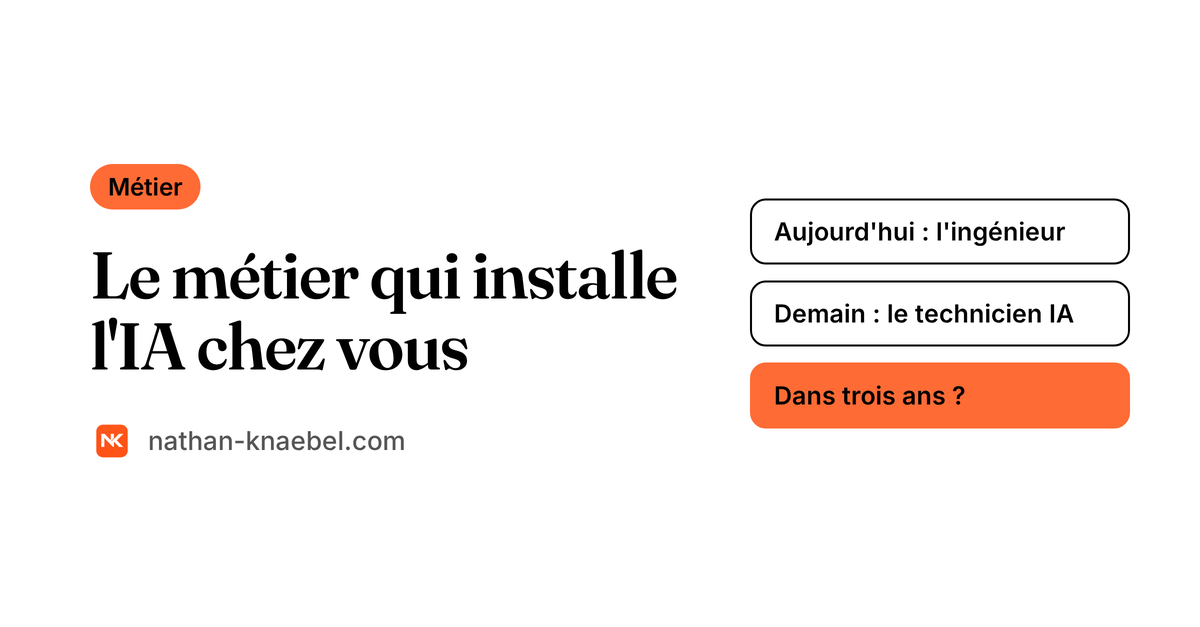
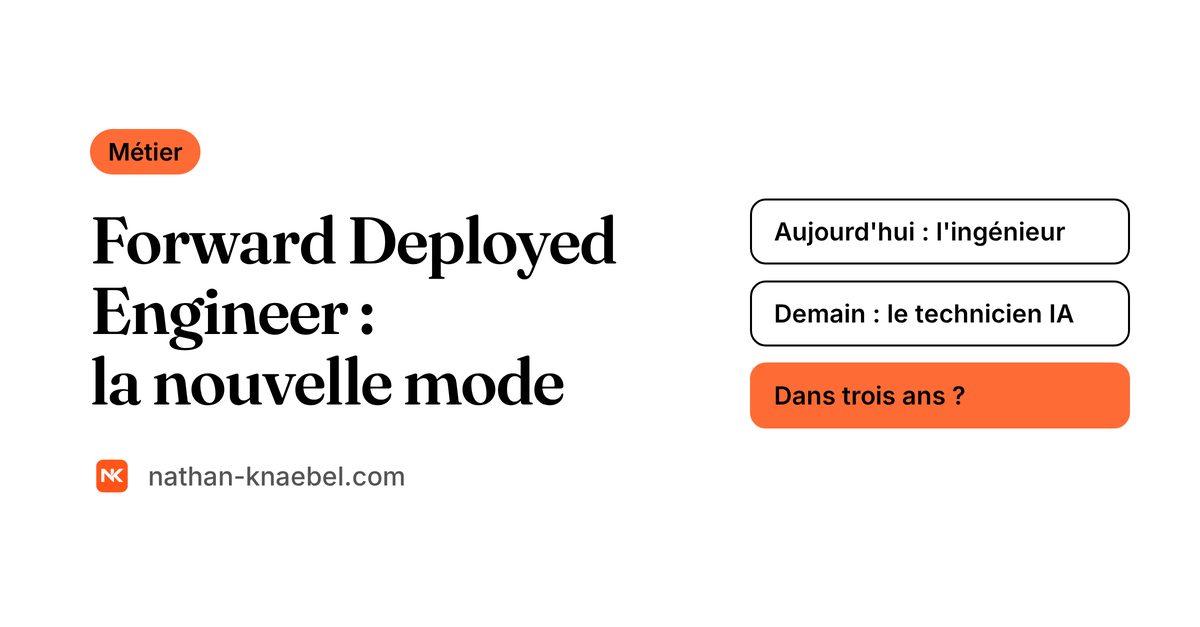
Blog FDE : titre « Forward Deployed Engineer : la nouvelle mode » et miniature refaite

Changed region(s): [[0.0617, 0.1818, 0.5858, 0.7879]]

diff --git a/content/blog/forward-deployed-engineer.md b/content/blog/forward-deployed-engineer.md
@@ -1,5 +1,5 @@
 ---
-titre: "Forward Deployed Engineer : le métier qui installe l'IA"
+titre: "Forward Deployed Engineer : la nouvelle mode"
 description: "Tout le monde s'arrache les forward deployed engineers qui installent l'IA directement chez le client. Je fais ce travail pour des petites entreprises et je vous explique pourquoi je pense qu'il deviendra bientôt un métier de technicien."
 date: 2026-10-11
 format: explicatif
